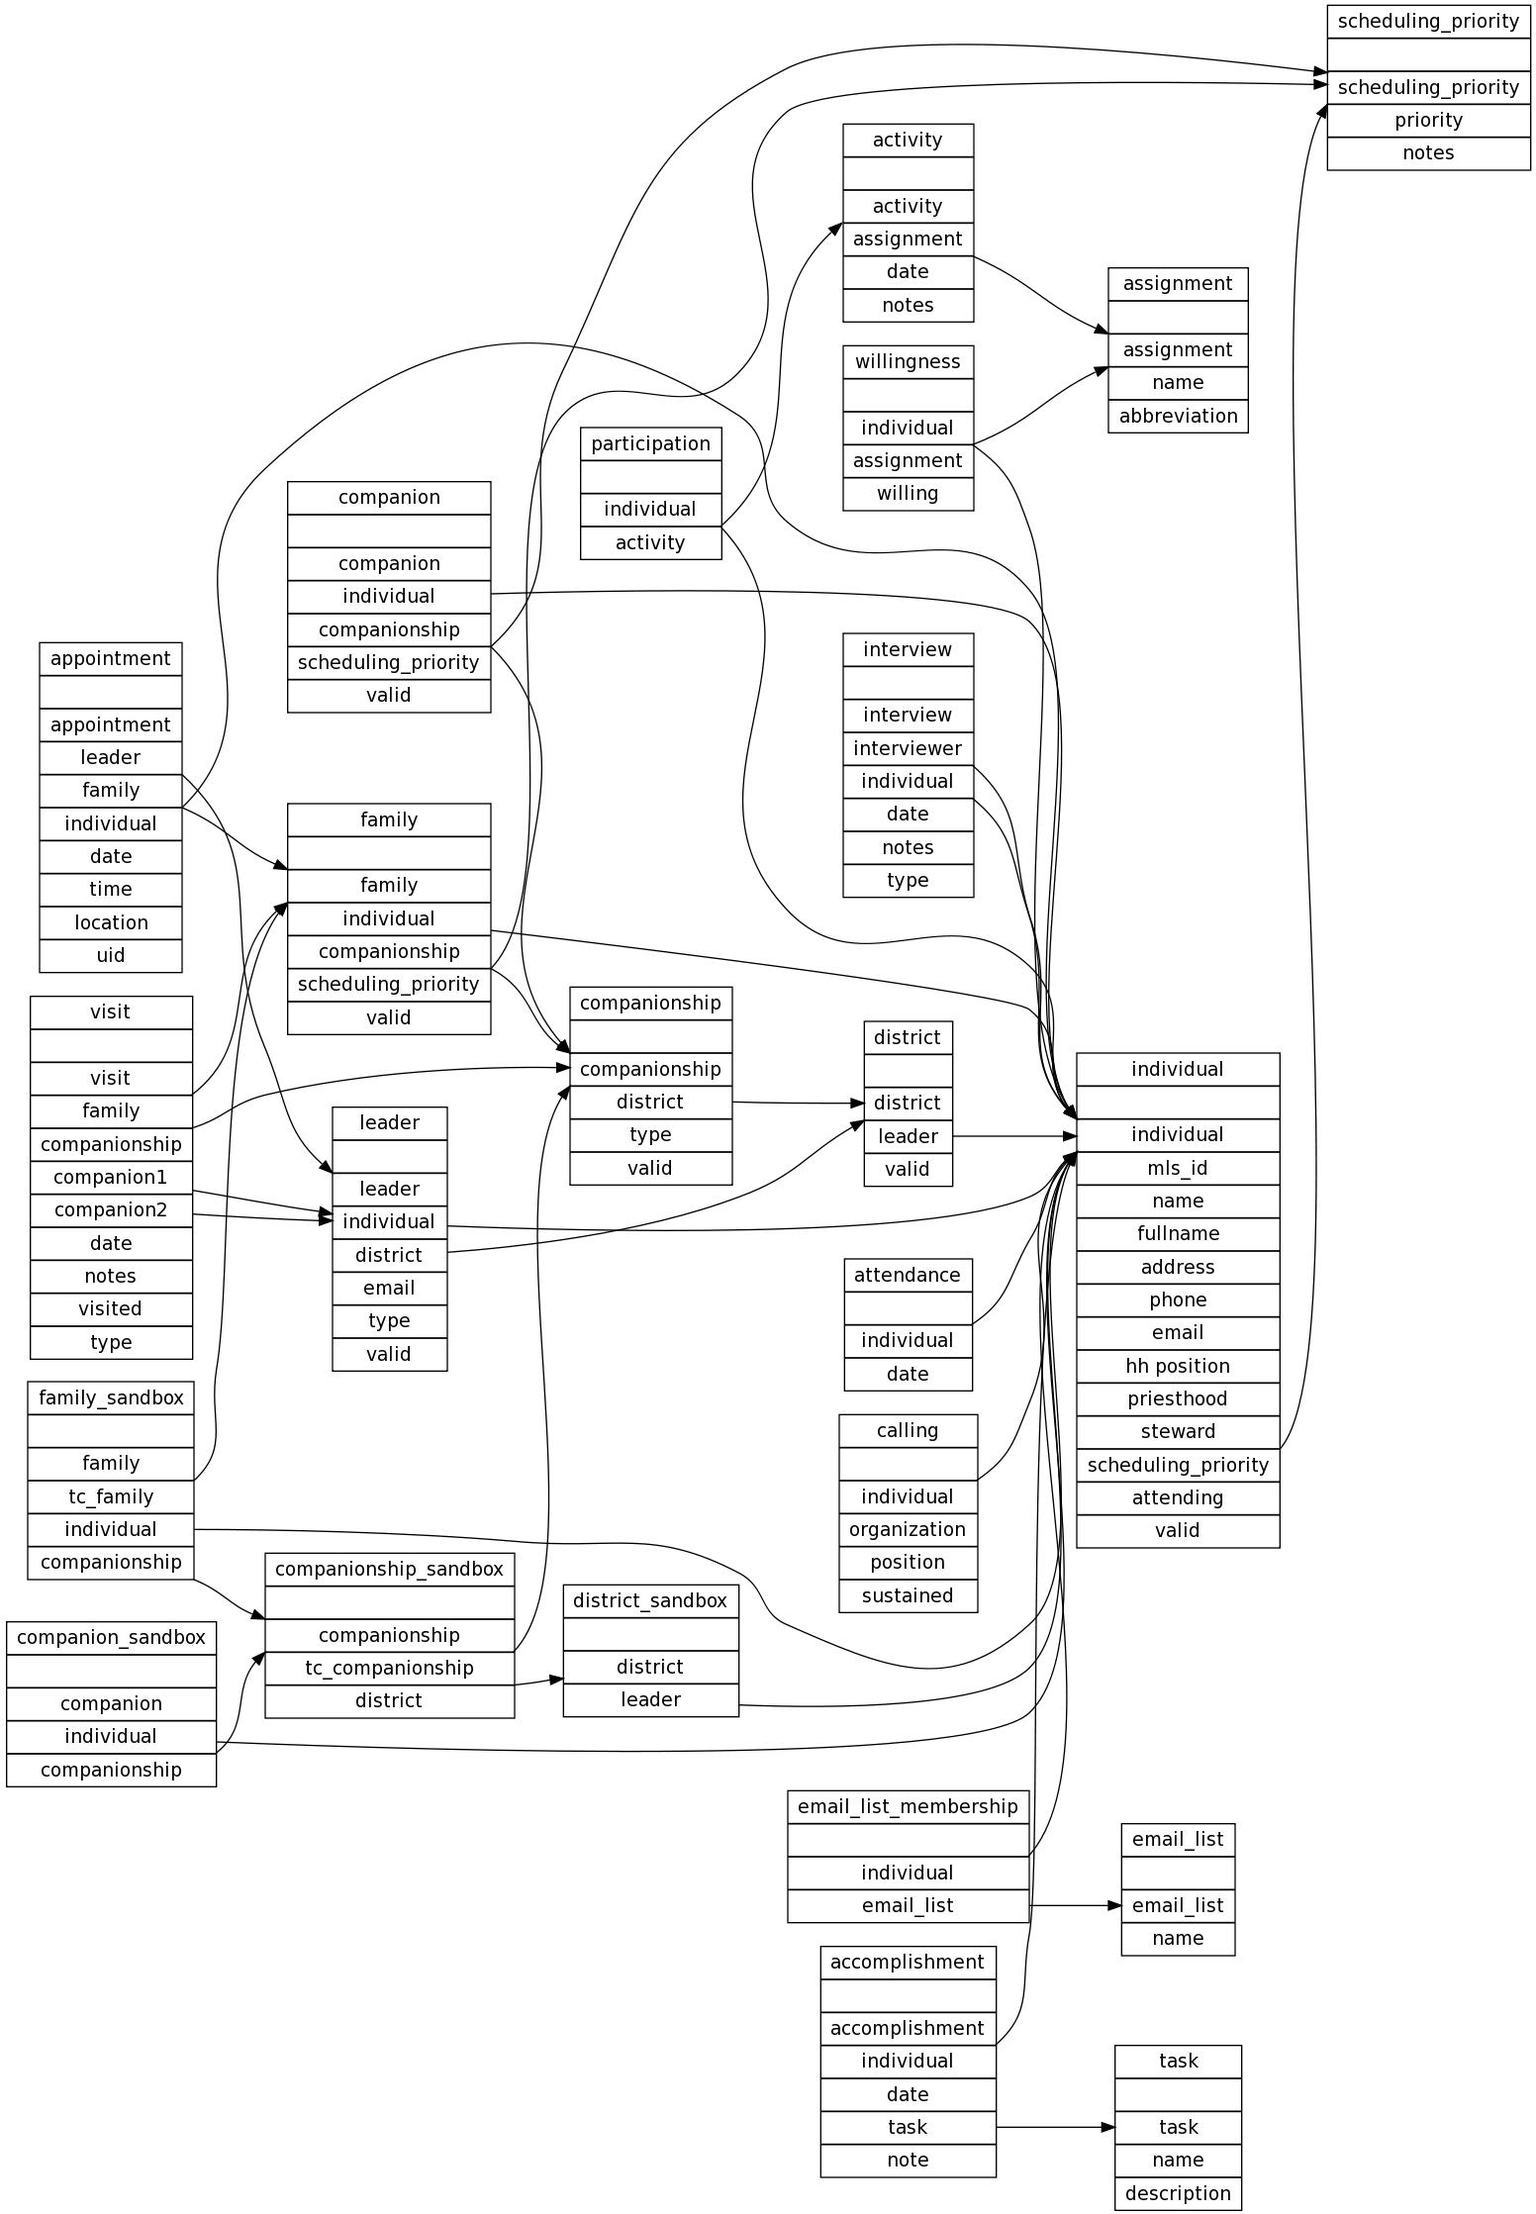
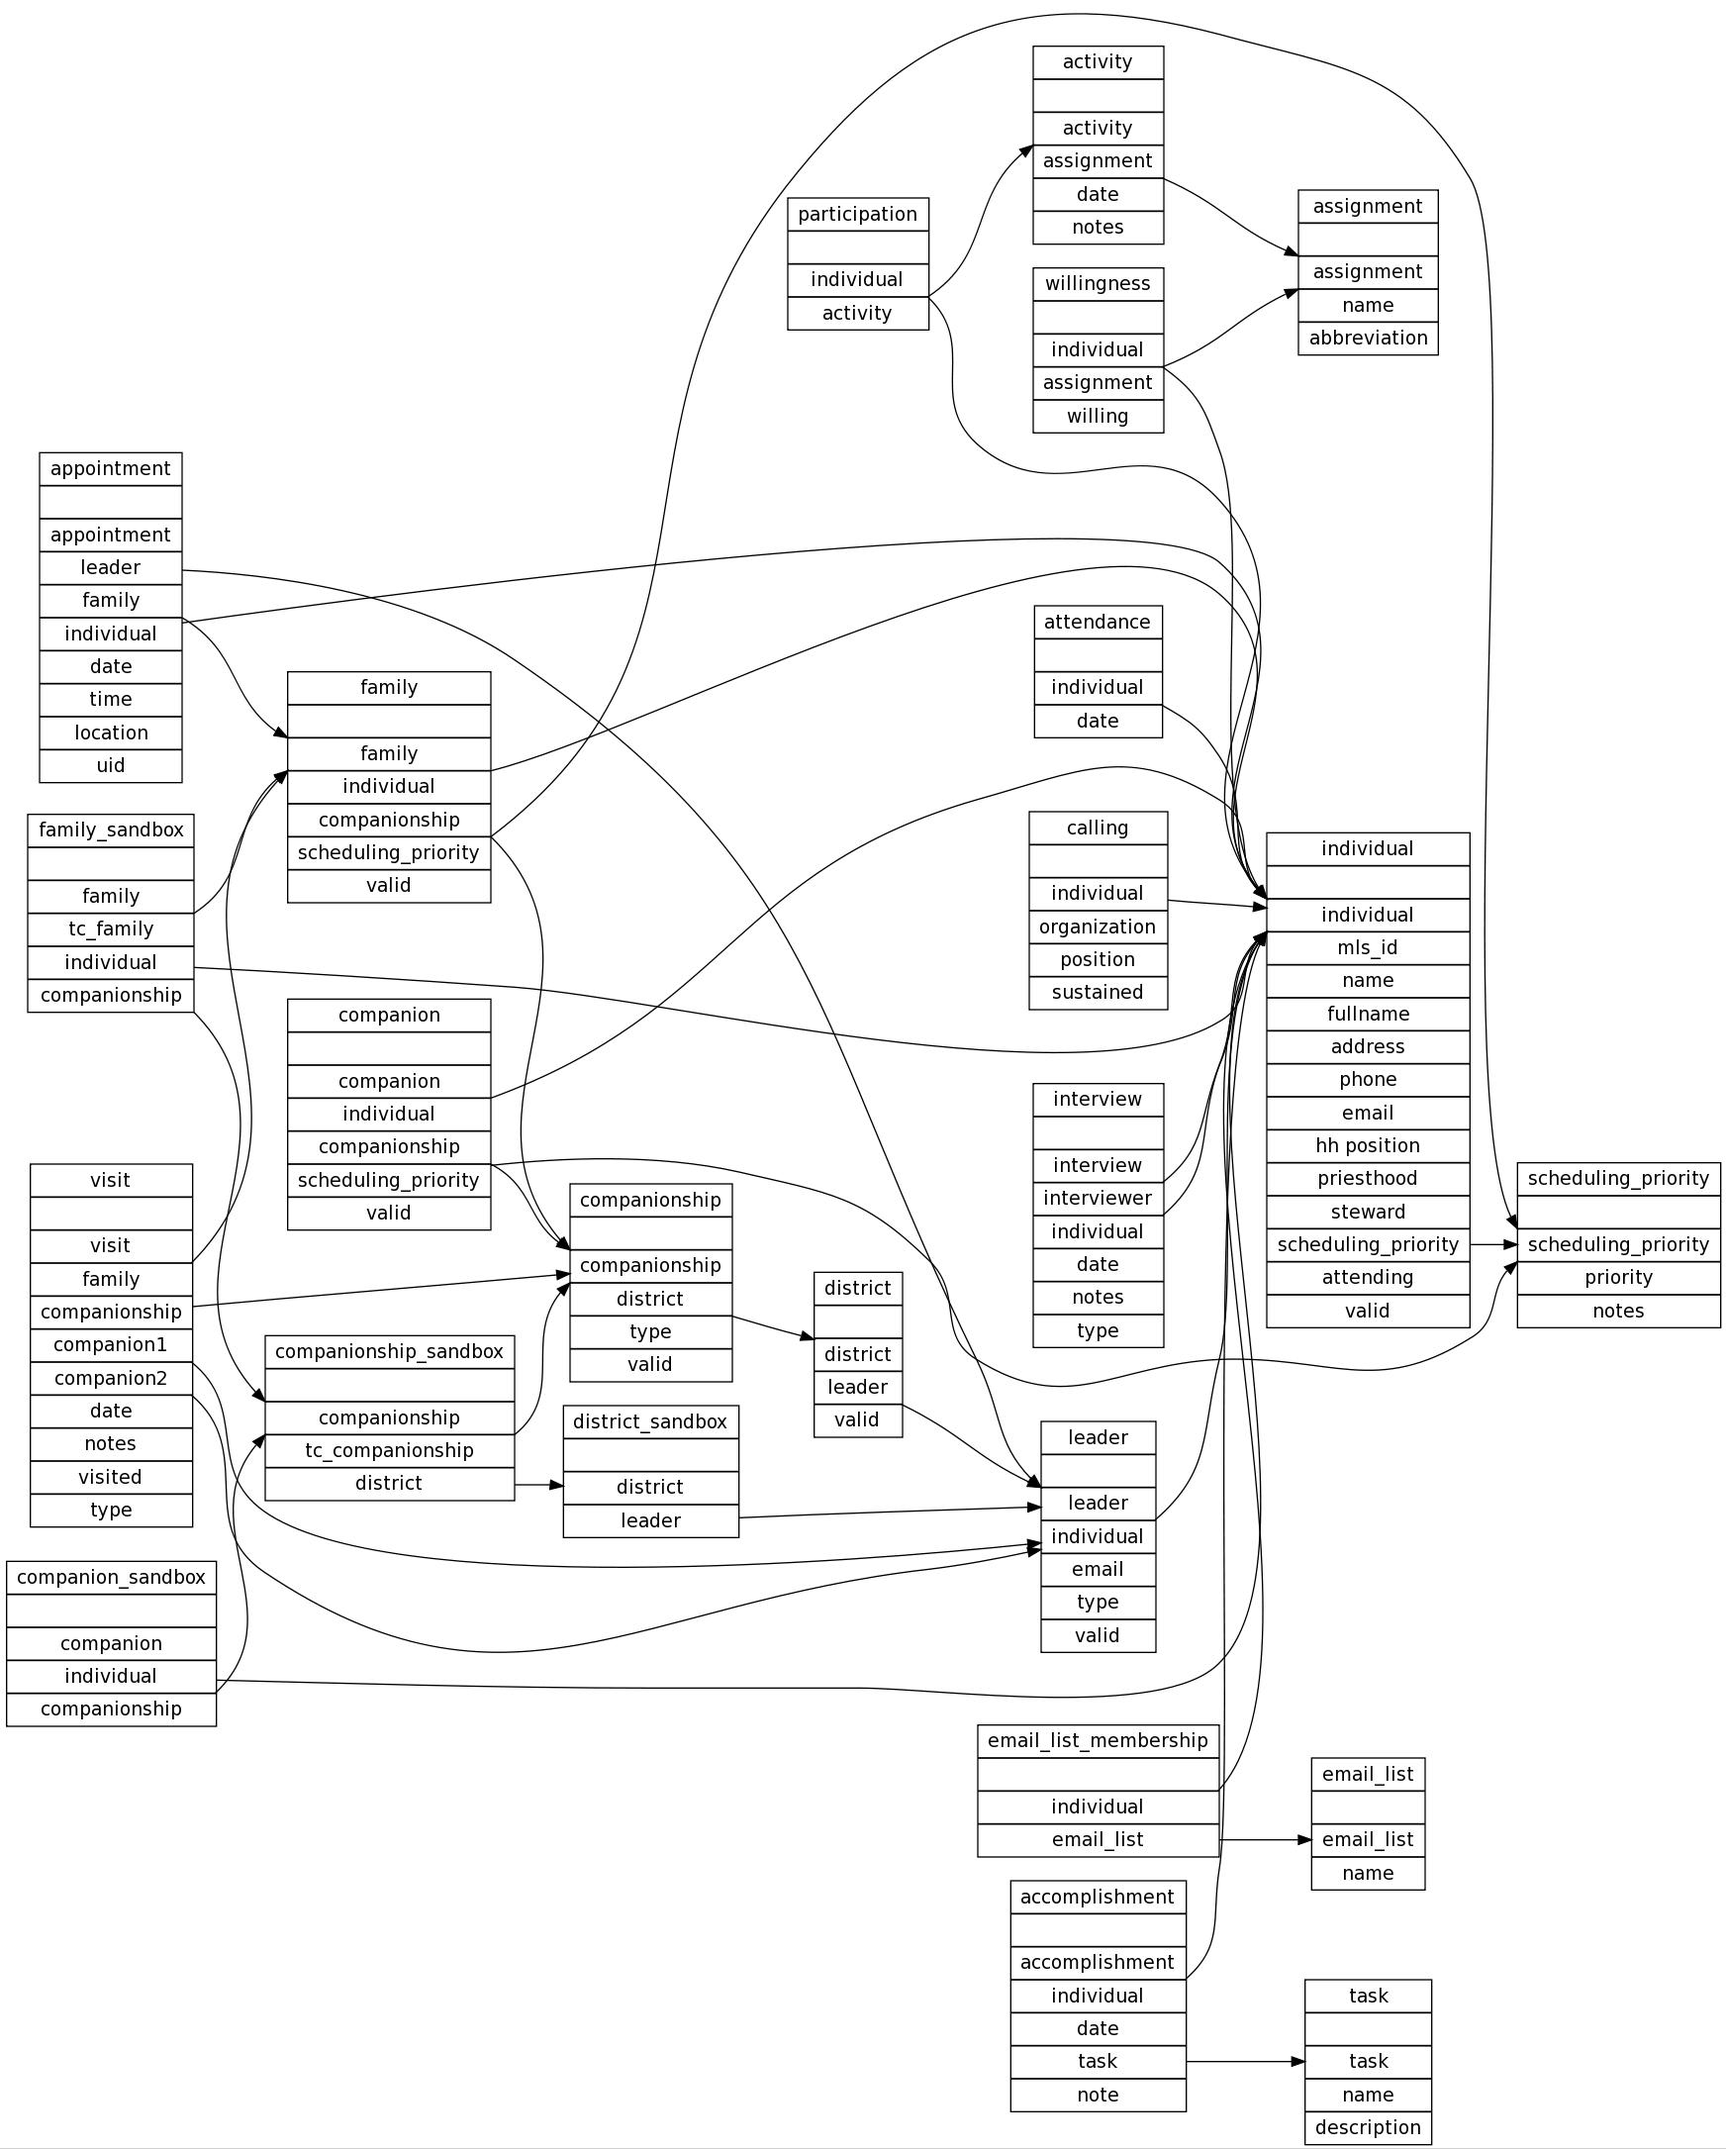
linked district table to leader table by leader id, removed district field from leader table

Changed region(s): [[0.0, 0.0, 1.0, 1.0], [0.8351, 0.0, 1.0, 0.0926], [0.4948, 0.0309, 0.5258, 0.0617]]

diff --git a/inc/class.tc.inc.php b/inc/class.tc.inc.php
@@ -228,7 +228,7 @@ class tc
 		$this->t->set_var('ht_sandbox_link',$GLOBALS['phpgw']->link('/tc/index.php','menuaction=tc.tc.ht_sandbox'));
 		$this->t->set_var('ht_sandbox_link_title','Hometeaching Sandbox'); 
 
-		$sql = "SELECT * FROM tc_district AS td JOIN tc_individual AS ti WHERE td.leader=ti.individual AND td.valid=1 ORDER BY td.district ASC";
+		$sql = "SELECT * FROM tc_district AS td JOIN (tc_individual AS ti, tc_leader AS tl) WHERE td.leader=tl.leader AND tl.individual=ti.individual AND td.valid=1 ORDER BY td.district ASC";
 		$this->db->query($sql,__LINE__,__FILE__);
 		$i=0;
 		while ($this->db->next_record()) {
@@ -2287,14 +2287,13 @@ class tc
 		}
 
 		// Get the Districts
-		$sql = "SELECT * FROM tc_district AS td JOIN (tc_leader AS tl, tc_individual AS ti) WHERE td.district=tl.district AND td.leader=ti.individual AND td.valid=1 ORDER BY td.district ASC";
+		$sql = "SELECT * FROM tc_district AS td JOIN (tc_leader AS tl, tc_individual AS ti) WHERE td.leader=tl.leader AND tl.individual=ti.individual AND td.valid=1 ORDER BY td.district ASC";
 		$this->db->query($sql,__LINE__,__FILE__);
 		$i=0;
 		while ($this->db->next_record()) {
 			$district = $this->db->f('district');
 			$districts[$i]['district'] = $this->db->f('district');
 			$districts[$i]['name'] = $this->db->f('name');
-			$districts[$i]['leader'] = $this->db->f('leader');
 			$districts[$i]['leader'] = $this->db->f('leader');
 			$i++;
 		}
@@ -3091,7 +3090,7 @@ class tc
 		else if($current_month >= 7 && $current_month <= 9) { $current_month=9; }
 		else if($current_month >= 10 && $current_month <= 12) { $current_month=12; }
 
-		$sql = "SELECT * FROM tc_district AS td JOIN tc_individual AS ti WHERE td.leader=ti.individual AND td.valid=1 ORDER BY td.district ASC";
+		$sql = "SELECT * FROM tc_district AS td JOIN (tc_individual AS ti, tc_leader AS tl) WHERE td.leader=tl.leader AND tl.individual=ti.individual AND td.valid=1 ORDER BY td.district ASC";
 		$this->db->query($sql,__LINE__,__FILE__);
 		$i=0;
 		while ($this->db->next_record()) {
@@ -3283,7 +3282,7 @@ class tc
 		$notes = get_var('notes',array('GET','POST'));
 		$type = get_var('type',array('GET','POST'));
 
-		$sql = "SELECT * FROM tc_leader AS tl JOIN tc_individual AS ti WHERE tl.individual=ti.individual AND tl.valid=1 AND (tl.type='P' OR tl.type='C' OR tl.type='D' OR tl.district!=0)";
+		$sql = "SELECT * FROM tc_leader AS tl JOIN (tc_individual AS ti, tc_district AS td) WHERE tl.individual=ti.individual AND tl.leader=td.leader AND tl.valid=1 AND (tl.type='P' OR tl.type='C' OR tl.type='D' OR td.district!=0)";
 		$this->db2->query($sql,__LINE__,__FILE__);
 		while ($this->db2->next_record()) {
 			$indiv = $this->db2->f('individual');
@@ -4512,6 +4511,21 @@ class tc
 			}
 		} else if($action == "leader") {
 			$new_data = get_var('eqpres',array('POST'));
+            
+			// Delete all the previous district entries from the table
+			$this->db->query("DELETE from tc_district where valid=1",__LINE__,__FILE__);
+			$this->db->query("DELETE from tc_district where valid=0",__LINE__,__FILE__);
+            
+			// Always add a "District 0" assigned to the High Priests Group
+			$district = 0;
+			$name = "High Priests";
+			$indiv = 0;
+			$valid = 0;
+			$this->db2->query("INSERT INTO tc_district (district,leader,valid) " .
+			                  "VALUES ('" . $district . "','" . 
+			                  $indiv . "','" . $valid . "'" .
+			                  ")",__LINE__,__FILE__);
+
 			foreach ($new_data as $entry) {
 				$id = $entry['id'];
 				$email = $entry['email'];
@@ -4535,56 +4549,29 @@ class tc
 						//print "Updating Existing Entry<br>";
 						$this->db2->query("UPDATE tc_leader set" .
 						                  " individual=" . $indiv . 
-						                  " ,district=" . $district . 
 						                  " ,email='" . $email . "'" .
 						                  " ,type='" . $leader_type . "'" .
 						                  " WHERE leader=" . $id,__LINE__,__FILE__);
 					} else {
 						//print "Adding New Entry<br>";
-						$this->db2->query("INSERT INTO tc_leader (leader,individual,district," .
+						$this->db2->query("INSERT INTO tc_leader (leader,individual," .
 						                  "email,type,valid) " .
-						                  "VALUES (NULL,'" . $indiv . "','" . $district . "','" .
+						                  "VALUES (NULL,'" . $indiv . "','" . 
 						                  $email . "','" . $leader_type . "','1'" .
 						                  ")",__LINE__,__FILE__);
+                        $id = mysql_insert_id();
+					}
+					
+					// If we have a valid district, add it to the district table
+					if($district > 0) {
+						$valid = 1;
+						$this->db2->query("INSERT INTO tc_district (district,leader,valid) " .
+										  "VALUES ('" . $district . "','" . 
+										  $id . "','" . $valid . "'" .
+										  ")",__LINE__,__FILE__);
 					}
 				} else {
 					//print "Ignoring Blank Entry<br>";
-				}
-			}
-
-			// Now update the tc_district table appropriately
-
-			// Delete all the previous district entries from the table
-			$this->db->query("DELETE from tc_district where valid=1",__LINE__,__FILE__);
-			$this->db->query("DELETE from tc_district where valid=0",__LINE__,__FILE__);
-
-			// Always add a "District 0" assigned to the High Priests Group
-			$district = 0;
-			$name = "High Priests";
-			$indiv = 0;
-			$valid = 0;
-			$this->db2->query("INSERT INTO tc_district (district,leader,valid) " .
-			                  "VALUES ('" . $district . "','" . 
-			                  $indiv . "','" . $valid . "'" .
-			                  ")",__LINE__,__FILE__);
-
-			// Requery the tc_leader table
-			$sql = "SELECT * FROM tc_leader AS tl JOIN tc_individual AS ti WHERE tl.individual=ti.individual AND tl.valid=1";
-			$this->db->query($sql,__LINE__,__FILE__);
-			while ($this->db->next_record()) {
-				// Extract the data for each leader record
-				$id = $this->db->f('leader');
-				$indiv = $this->db->f('individual');
-				$name = $this->db->f('name');
-				$district = $this->db->f('district');
-				$valid = 1;
-
-				// If we have a valid district, add it to the district table
-				if($district > 0) {
-					$this->db2->query("INSERT INTO tc_district (district,leader,valid) " .
-					                  "VALUES ('" . $district . "','" . 
-					                  $indiv . "','" . $valid . "'" .
-					                  ")",__LINE__,__FILE__);
 				}
 			}
 
@@ -4607,13 +4594,20 @@ class tc
 			// Extract the data for each leader record
 			$id = $this->db->f('leader');
 			$indiv = $this->db->f('individual');
-			$district = $this->db->f('district');
 			$name = $this->db->f('name');
 			$email = $this->db->f('email');
             $leader_type = $this->db->f('type');
 			if ($leader_type == 'P') {$president = 1;} else {$president = 0;}
 			if ($leader_type == 'C') {$counselor = 1;} else {$counselor = 0;}
 			if ($leader_type == 'S') {$secretary = 1;} else {$secretary = 0;}
+
+			$sql = "SELECT * FROM tc_district AS td JOIN tc_leader AS tl WHERE td.leader=tl.leader AND td.leader=$id AND td.district!=0 AND td.valid=1";
+			$this->db2->query($sql,__LINE__,__FILE__);
+            if ($this->db2->next_record()) {
+				$district = $this->db2->f('district');
+            } else {
+				$district = 0;
+            }
 
 			// Create the forms needed in the table
 			$table_data .= "<tr bgcolor=". $this->t->get_var('tr_color') .">";
